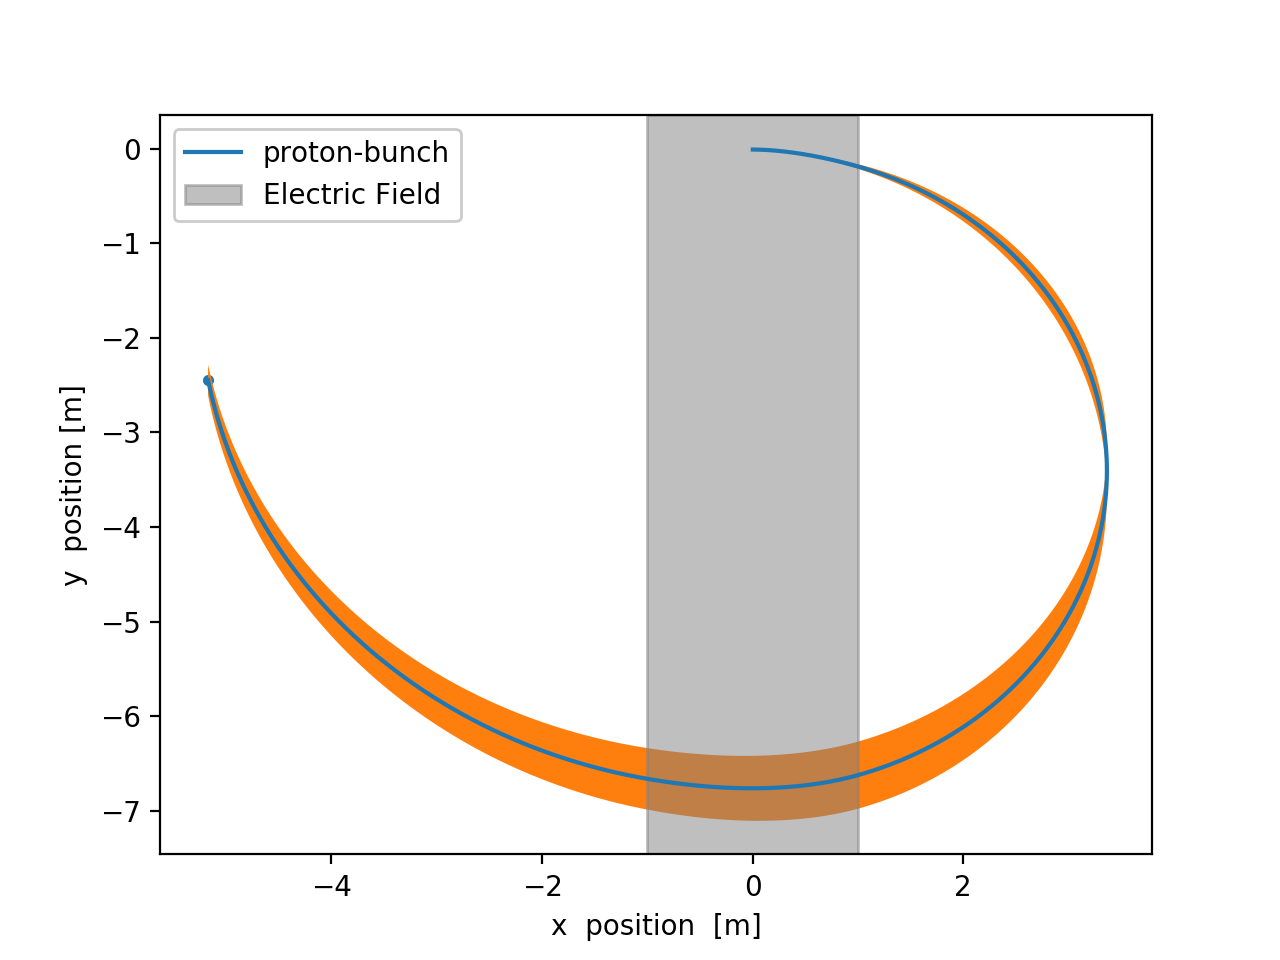
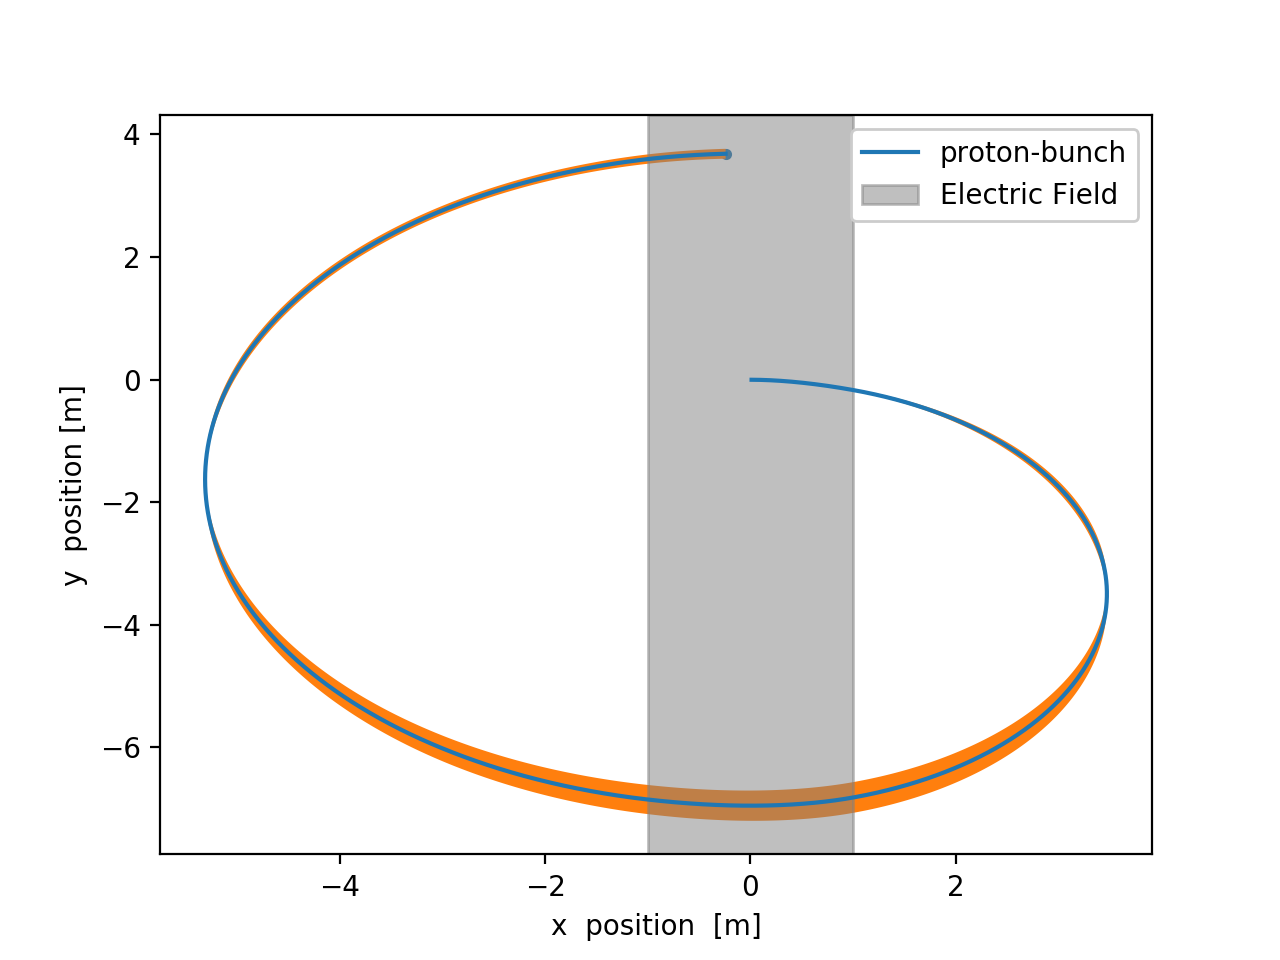
Fixed analyse_period.py

diff --git a/Project/analyse_period.py b/Project/analyse_period.py
@@ -9,17 +9,18 @@ from ChargedParticle import ChargedParticle
 import pandas as pd
 
 """
-This file is an independent file that tests the simulated time period of a proton in a constant 
-magnetic field against the expected time period given by:
+This file is an independent file that tests the simulated time period of a proton in a constant magnetic 
+field against the expected time period given by:
 
 T = 2*pi*m / (qB)
 
-The simulation will produce a plot showing the proton in the magentic field. It will also produce
-a pickled csv file containing the time periods of the five simulated revoltions. If you do not have
-the required csv, the simualtion will run and generate it for you.
+If you do not have the csv containing approximately 100 revolutions, the simulation will run and generate
+the csv file for you. It will then print the mean time period and its error (one standard deviation) and the
+time period predicted by the equation above. Finally it will print, the ratio of the two time periods; the 
+simulated time period divided by the theoretical one.
 """
 field = EMField([0,0,0], [0,0,1.6*10**(-5)])
-proton = ChargedParticle('proton', const.m_p, const.e, [0,0,0], [-3000,0,0])
+proton = ChargedParticle('proton', const.m_p, const.e, [0,0,0], [3000,0,0])
 theoretical_period = 2*const.pi*proton.mass / (proton.charge*field.magneticMag())
 
 def simulation():
@@ -30,7 +31,7 @@ def simulation():
     timeSeries = []
     data_csv = []
     revolution = 1
-    data_csv.append([revolution,time,0,[0,0,0]]) # ensure data always has one element to avoid length error in next line
+    data_csv.append([revolution,time,0,[0,0,0]]) # ensure data always has one element to avoid length error later
     log.logger.info('starting simulation')
     while time <= duration:
         time += deltaT
@@ -40,7 +41,7 @@ def simulation():
 
         temp_bunch = copy.deepcopy(bunch)
 
-        if previous_proton[0].position[0] > 0 and temp_bunch[0].position[0] <= 0:
+        if previous_proton[0].position[0] < 0 and temp_bunch[0].position[0] >= 0:
             period = time - (data_csv[-1])[1]
             revolution += 1
             log.logger.info('computing revolution')
@@ -64,6 +65,6 @@ print(df)
 df.drop([df.index[0]], inplace=True) 
 average_period = df['Measured Period'].mean() # seconds
 error = df['Measured Period'].std() # seconds
-print('time period from simulation: {0} ± {1} s'.format(round(average_period,15),round(error,15)))
-print('time period from theory: {0} s'.format(round(theoretical_period,15)))
-print('raito of simulated time period to theoretical: {0}'.format(round((average_period/theoretical_period),15)))
+print('time period from simulation: {0} ± {1} s'.format(round(average_period,6),round(error,6)))
+print('time period from theory: {0} s'.format(round(theoretical_period,6)))
+print('raito of simulated time period to theoretical: {0}'.format(round((average_period/theoretical_period),6)))

diff --git a/Project/main.py b/Project/main.py
@@ -6,14 +6,14 @@ import copy
 from EMField import EMField
 from ProtonBunch import ProtonBunch
 
-field = EMField([.1,0,0], [0,0,1.6*10**(-5)])
-protons = ProtonBunch(0.047)
+field = EMField([.1,0,0], [0,0,1.6*10**(-5)]) 
+protons = ProtonBunch(0.047,5)
 
 log.logger.info('Initial average kinetic energy: %s eV' % protons.KineticEnergy())
 log.logger.info('Initial average momentum: %s kg m/s' % protons.momentum())
 log.logger.info('Initial bunch spread: %s m' % protons.spread())
 
-time, deltaT, duration = 0, 10**(-6), 0.005
+time, deltaT, duration = 0, 10**(-6), 0.0041
 
 timeSeries = []
 Data = []
@@ -35,20 +35,35 @@ plt.figure('Cyclotron with Bunch')
 plt.axvspan(field.electricLowerBound,field.electricUpperBound,alpha=0.5, color='grey',label='Electric Field')
 #plt.scatter(magneticX,magneticY,marker=r'$\bigotimes$',s=95,color='black',label='Magnetic Field')
 
-x,y,y_downSpread,y_upSpread = [],[],[],[]
+x,y,y_downSpread,y_upSpread, x_spread, y_spread = [],[],[],[],[],[]
 for bunch in Data:
     x.append(bunch.averagePosition()[0])
     y.append(bunch.averagePosition()[1])
-    y_downSpread.append(bunch.averagePosition()[1] - abs(bunch.spread()[1]))
-    y_upSpread.append(bunch.averagePosition()[1] + abs(bunch.spread()[1]))
+    y_downSpread.append(bunch.averagePosition()[1] - bunch.spread()[1])
+    y_upSpread.append(bunch.averagePosition()[1] + bunch.spread()[1])
+    x_spread.append(bunch.spread()[0])
+    y_spread.append(bunch.spread()[1])
 final = [x[-1], y[-1]]
 plt.plot(x,y,label=protons.bunchName)
 plt.scatter(final[0], final[1], marker='.')
 plt.fill_between(x,y_downSpread,y_upSpread)
 plt.xlabel(r'x  position  [m]')
 plt.ylabel(r'y  position [m]')
-plt.legend(loc='upper left',framealpha=1)
+plt.legend(loc='best',framealpha=1)
 
+plt.figure('Spread')
+plt.plot(timeSeries,x_spread,label=r'$\sigma_{x}$')
+plt.plot(timeSeries,y_spread,label=r'$\sigma_{y}$')
+plt.xlabel('Time [s]')
+plt.ylabel('Spread [m]')
+plt.legend()
 
+plt.figure('Bunch_with_Spread')
+plt.plot(timeSeries,y,label=r'$\mu_{y-bunch}$' )
+plt.plot(timeSeries,y_upSpread,label=r'$\mu_{y-bunch}$ + $\sigma_{y}$')
+plt.plot(timeSeries,y_downSpread,label=r'$\mu_{y-bunch}$ - $\sigma_{y}$')
+plt.xlabel('Time [s]')
+plt.ylabel('Spread [m]')
+plt.legend()
 
 plt.show()
